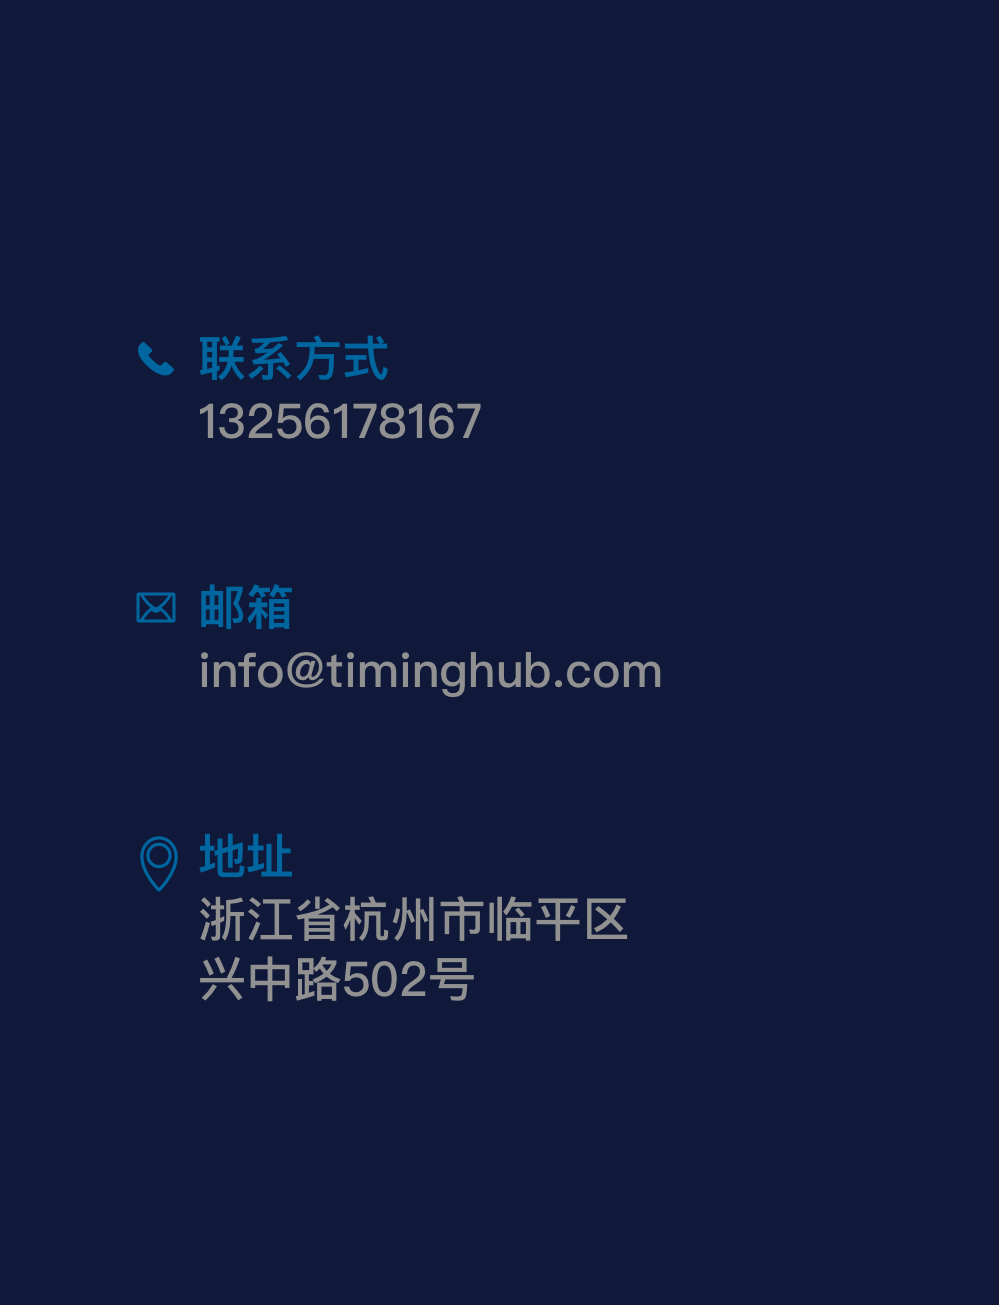
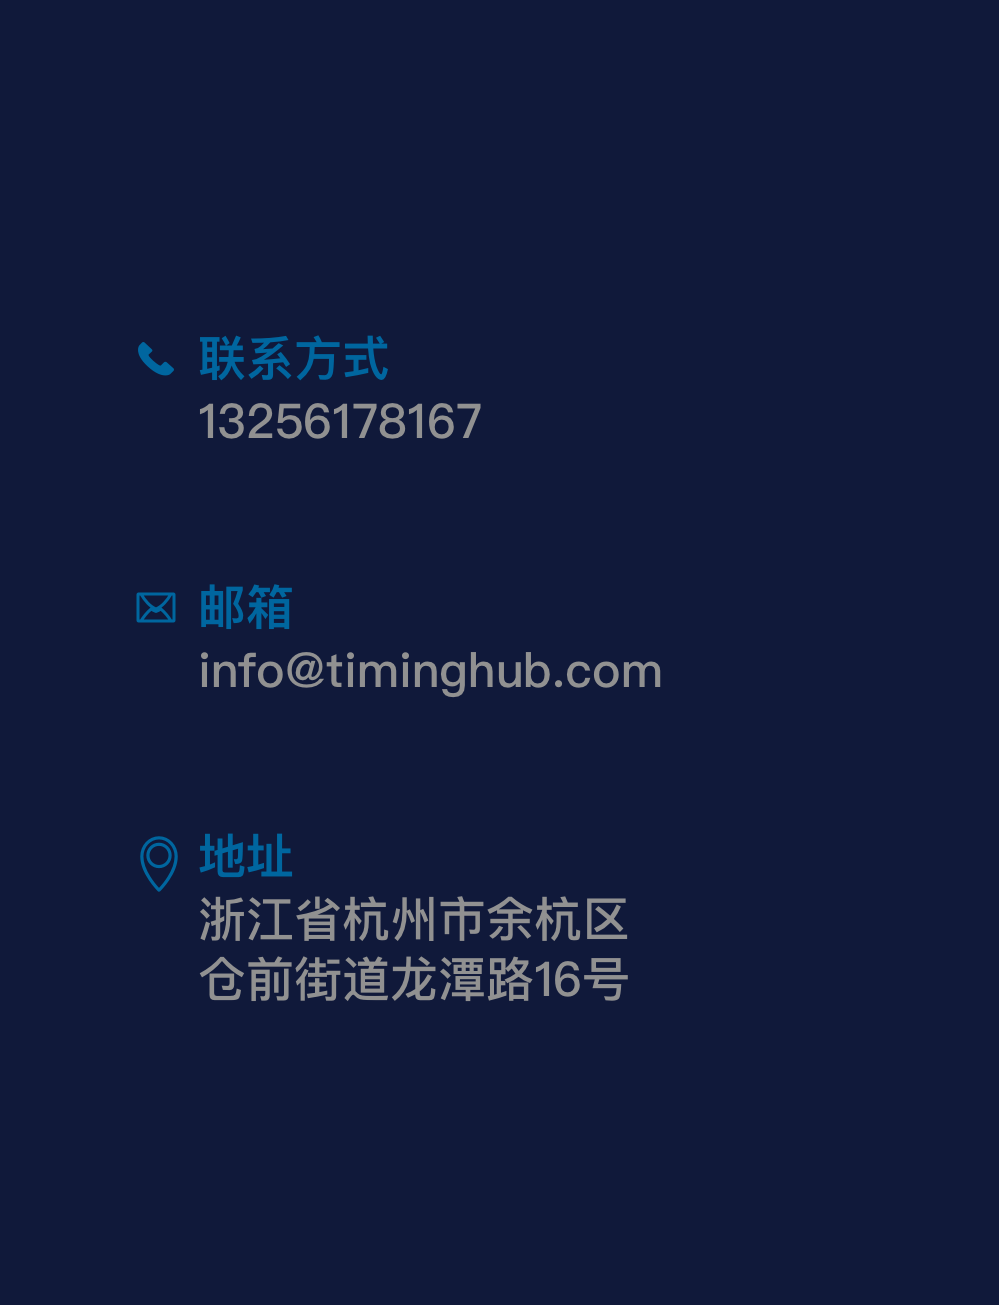
feat: 微调

Changed region(s): [[0.1862, 0.6743, 0.6206, 0.7663]]

diff --git a/system/index.html b/system/index.html
@@ -48,7 +48,7 @@
             <div class="item">
               我们为多孔材料引入特殊官能团，通过材料孔径大小及官能团的共同作用，实现含氮杂环类物质在各类溶液中的选择性吸附分离。
             </div>
-            <div style="font-weight: bold; padding-bottom: 10px;">案例：吡啶及其氯代物的回收套用</div>
+            <div style="font-weight: bold; padding-bottom: 10px; color: #10193A">案例：吡啶及其氯代物的回收套用</div>
             <div class="item">
               通过树脂将含量在1-5%左右的吡啶及其氯代物从氯化铵溶液中吸附分离。脱附液中的吡啶及氯代物可以达到到20%左右的浓度，实现生产套用。氯化铵溶液经MVR蒸发结晶后可达到副产盐标准。
             </div>
@@ -71,7 +71,7 @@
               我们分析羧酸类化合物在体系中的理化性质，针对羧基的质子化现象，判断其在溶液中的离子形式。根据pH、温度、前后工艺，选用相应的离子交换树脂，实现有机羧酸化合物的富集。
             </div>
 
-            <div style="font-weight: bold; padding-bottom: 10px;">案例：硫酸钠溶液中分离烟酸</div>
+            <div style="font-weight: bold; padding-bottom: 10px; color: #10193A">案例：硫酸钠溶液中分离烟酸</div>
             <div class="item">
               当烟酸在酸性环境下时，氮原子质子化，氮原子主要以阳离子NH+形式存在；在碱性环境时, 烟酸主要以阴离子COO-形式存在。我们依据其所在体系及存在形态设计落地吸附方案，实现烟酸的富集。
             </div>
@@ -89,7 +89,7 @@
             <div class="item">
               多孔材料可作为固相萃取技术，实现均相催化剂的吸附套用、离子态金属催化剂的富集回收，解决企业催化剂流失问题，降低生产成本。
             </div>
-            <div style="font-weight: bold; padding-bottom: 10px;">案例：离子钯吸附</div>
+            <div style="font-weight: bold; padding-bottom: 10px; color: #10193A">案例：离子钯吸附</div>
             <div class="item">
               钯类催化剂在精细化工领域是最常见的金属催化剂。我们选用的树脂材料，易与水相中的Pd2+形成稳定络合物，对低浓度离子钯的选择性吸附效果明显，每立方材料的最大吸附量可以达到60kg。
             </div>
@@ -145,8 +145,8 @@
           <div class="left">
             <div class="title">杭州碳明科技有限公司</div>
             <div class="info">
-              注册地址：浙江省杭州市余杭区仓前街道龙潭路16号3幢6层625室 <br>
-              生产地址：浙江省杭州市临平区兴中路502号 <br>
+              地址：浙江省杭州市余杭区仓前街道龙潭路16号3幢6层625室 <br>
+              
               邮      箱：info@timinghub.com <br>
               联系电话：13256178167 （戴女士）
             </div>

diff --git a/index.html b/index.html
@@ -87,9 +87,9 @@
             <!-- 低能耗、低药剂的工艺 -->
           </div>
           <div class="main-text-content">    
-            我们通过选择性吸附技术，实现了反应中催化剂的分离与回收；<br>
-            吸附母液中的剩余产品，提高了产品收率；<br>
-            去除了废水中的高附加值化学品，减少了三废；<br>
+            我们通过选择性吸附技术，实现了反应中催化剂的分离与回收。<br>
+            吸附母液中的剩余产品，提高了产品收率。<br>
+            去除了废水中的高附加值化学品，减少了三废。<br>
             将催化剂负载到多孔材料中固定化，实现了反应的连续化生产。
           </div>
 
@@ -248,8 +248,8 @@
           <div class="left">
             <div class="title">杭州碳明科技有限公司</div>
             <div class="info">
-              注册地址：浙江省杭州市余杭区仓前街道龙潭路16号3幢6层625室 <br>
-              生产地址：浙江省杭州市临平区兴中路502号 <br>
+              地址：浙江省杭州市余杭区仓前街道龙潭路16号3幢6层625室 <br>
+              
               邮      箱：info@timinghub.com <br>
               联系电话：13256178167 （戴女士）
             </div>

diff --git a/custom/index.html b/custom/index.html
@@ -169,8 +169,8 @@
           <div class="left">
             <div class="title">杭州碳明科技有限公司</div>
             <div class="info">
-              注册地址：浙江省杭州市余杭区仓前街道龙潭路16号3幢6层625室 <br>
-              生产地址：浙江省杭州市临平区兴中路502号 <br>
+              地址：浙江省杭州市余杭区仓前街道龙潭路16号3幢6层625室 <br>
+              
               邮      箱：info@timinghub.com <br>
               联系电话：13256178167 （戴女士）
             </div>

diff --git a/about/index.html b/about/index.html
@@ -84,8 +84,8 @@
           <div class="left">
             <div class="title">杭州碳明科技有限公司</div>
             <div class="info">
-              注册地址：浙江省杭州市余杭区仓前街道龙潭路16号3幢6层625室 <br>
-              生产地址：浙江省杭州市临平区兴中路502号 <br>
+              地址：浙江省杭州市余杭区仓前街道龙潭路16号3幢6层625室 <br>
+              
               邮      箱：info@timinghub.com <br>
               联系电话：13256178167 （戴女士）
             </div>

diff --git a/about/index.css b/about/index.css
@@ -87,15 +87,16 @@
 
 .page .main5-items {
   padding-top: 40px;
-  width: 50vw;
+  width: 790px;
   display: flex;
-  justify-content: space-between;
+  /* justify-content: space-between; */
   margin: 0 auto;
 }
 
 .page .main5-item {
   text-align: center;
   width: 236px;
+  margin-right: 36px;
   height: 176px;
   display: flex;
   align-items: center;
@@ -104,6 +105,10 @@
   font-size: 20px;
   cursor: pointer;
   font-weight: bold;
+}
+
+.page .main5-item:last-child {
+  margin-right: 0px;
 }
 
 .page .main5-item:hover {

diff --git a/index/index.css b/index/index.css
@@ -91,6 +91,7 @@
   line-height: 1.5;
   text-align: left;
   padding-bottom: 68px;
+  text-align: justify;
 }
 
 .rects-container-title {
@@ -137,7 +138,7 @@
 }
 
 .mian3-rects {
-  width: 500px;
+  width: 458px;
 }
 
 .main3 {
